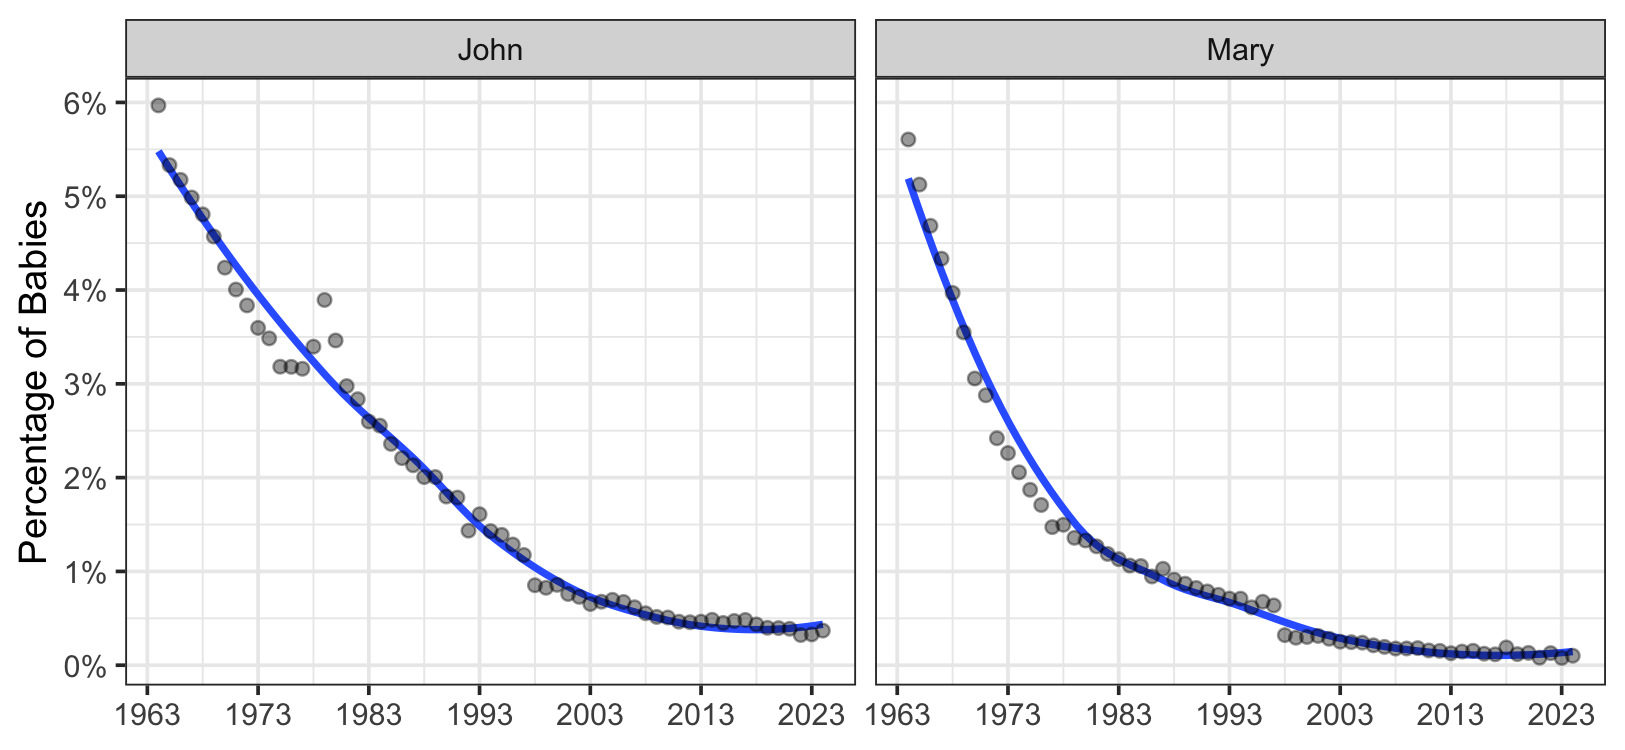
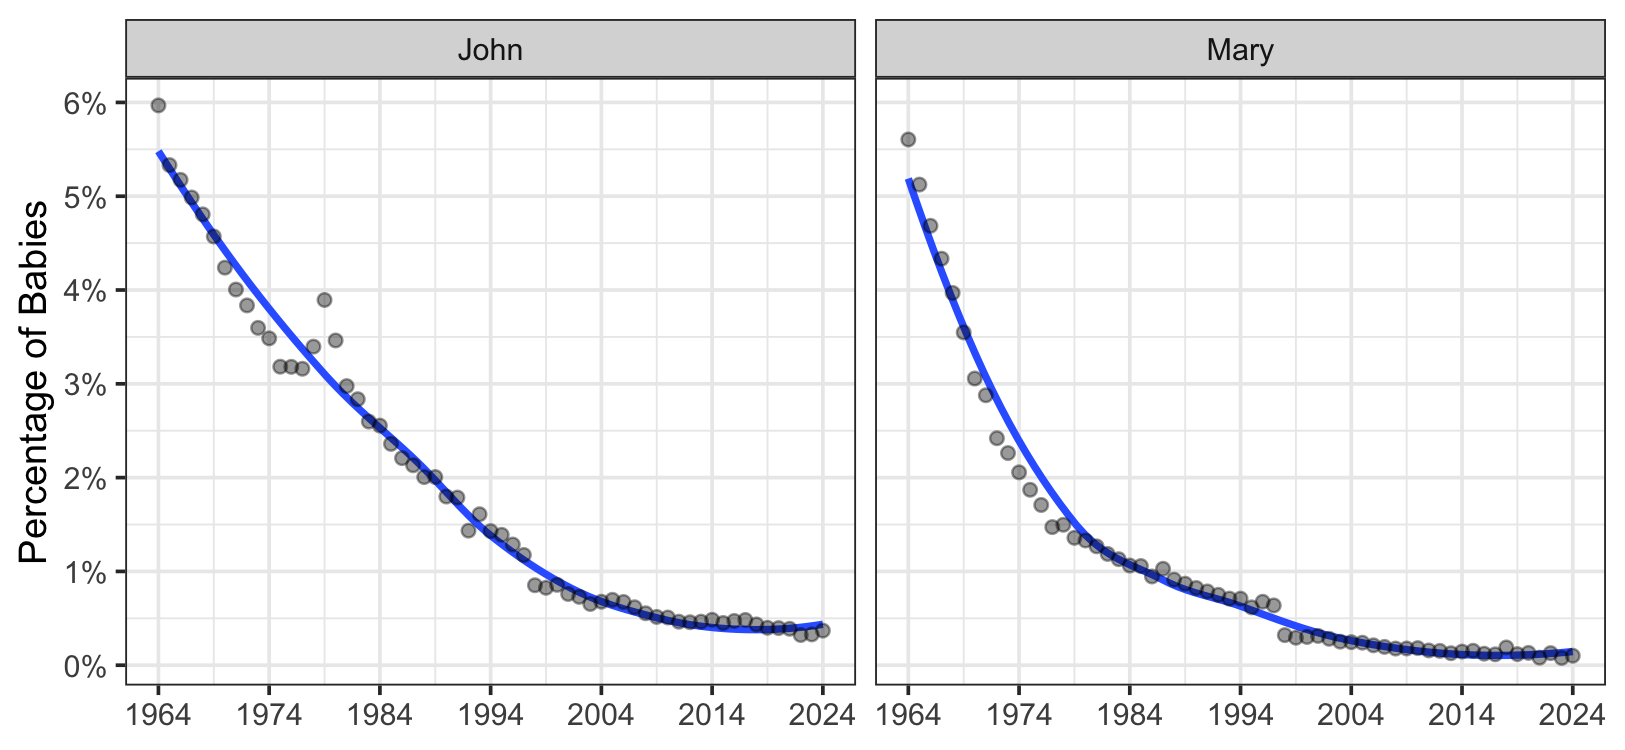
Update x-axis breaks in plots and regenerate images
Changed the starting year for x-axis breaks in ggplot plots from 1963 to 1964 in both README.Rmd and README.md for consistency. Updated the corresponding plot images to reflect these changes.

diff --git a/README.md b/README.md
@@ -126,7 +126,7 @@ ggplot(iebabynames_top, aes(x = n_total,
 ggplot(data = filter(iebabynames, name %in% c("John", "Mary")),
        aes(x = year, y = prop)) +
     geom_smooth(se = FALSE) +
-    scale_x_continuous(breaks = c(seq(1963, 2024, 10))) +
+    scale_x_continuous(breaks = c(seq(1964, 2024, 10))) +
     scale_y_continuous(labels = scales::percent,
                        breaks = c(seq(0, 0.06, 0.01))) +
     geom_point(alpha = 0.4) +
@@ -145,7 +145,7 @@ iebabynames_variants <- iebabynames |>
 ggplot(data = iebabynames_variants,
        aes(x = year, y = n)) +
     geom_smooth(se = FALSE) +
-    scale_x_continuous(breaks = c(seq(1963, 2024, 20))) +
+    scale_x_continuous(breaks = c(seq(1964, 2024, 20))) +
     geom_point(alpha = 0.4) +
     facet_wrap(~name, nrow = 1) +
     labs(x = NULL, y = "Frequency") +
